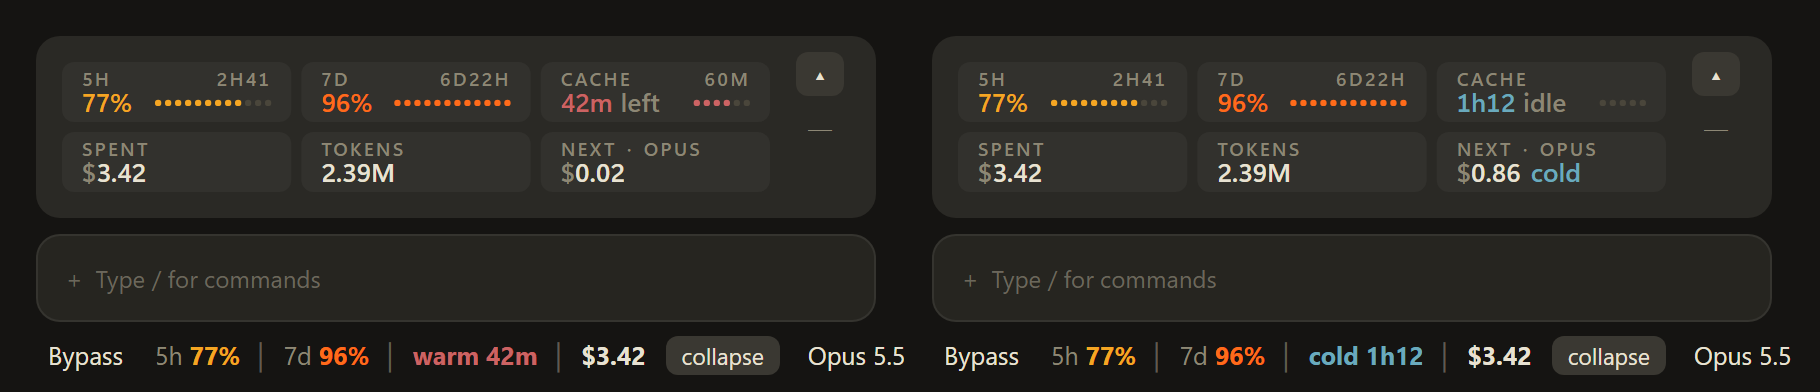
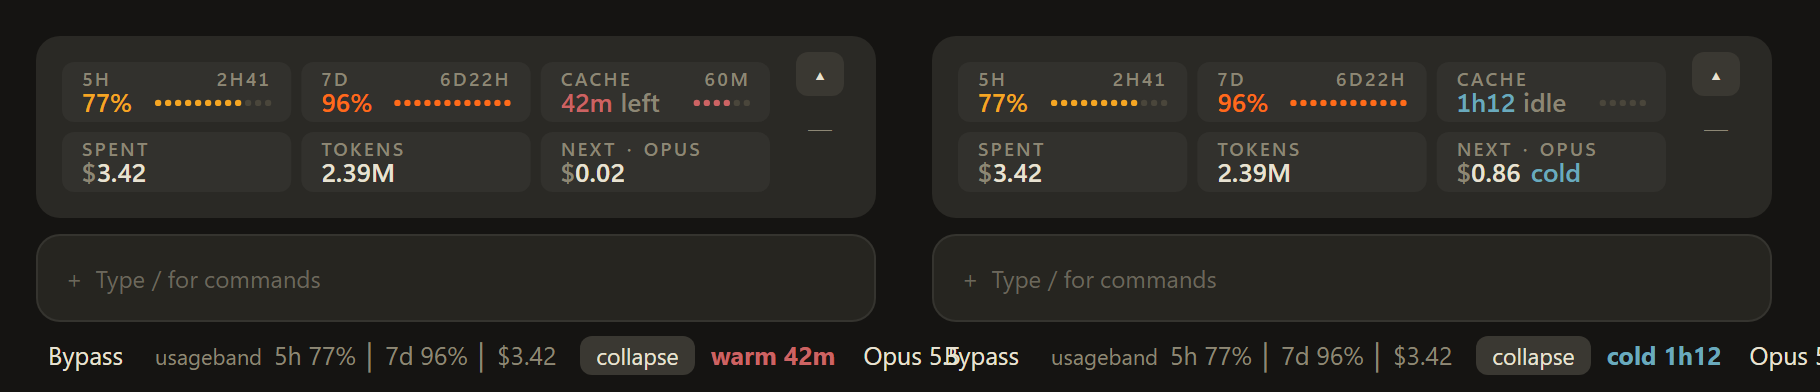
fix: split the footer so every figure shows (#5)
The desktop app cuts the footer's mode slot after about 25 characters,
so the cache state and the spend were hidden. The slot now holds only
the expand/collapse button and the cache in colour ("warm 42m" red,
"cold 1h12" blue). The 5h and 7d limits and the money spent go to the
plugin status line ("5h 77% │ 7d 96% │ $3.42"), which has room for them.

Version 0.14.0.

Closes #4

Changed region(s): [[0.5538, 0.8571, 1.0, 0.9796], [0.0615, 0.8571, 0.5231, 0.9796]]

diff --git a/hooks/register.tsx b/hooks/register.tsx
@@ -370,63 +370,43 @@ export const register: Register = on => {
       : { text: 'Usage band shown.' }
   })
 
-  // The footer, right of the prompt: the engine's mode labels, then the usage line
-  // ("5h 77% │ 7d 96% │ warm 42m │ $3.42"), then one Button in the app's own style that
-  // shows or hides the band at any time: "expand" while it is hidden, "collapse" while
-  // it shows. The footer slot is narrow and the engine reports only the window's width,
-  // so the line is always the short form. It reads the view and the figures here, so a
-  // change to either draws it again, and the redraw interval keeps the countdown current.
+  // The footer row. The desktop app cuts this slot after about 25 characters, so it
+  // holds only the expand/collapse Button and the cache in colour ("warm 42m" red,
+  // "cold 1h12" blue). The rest of the line ("5h 77% │ 7d 96% │ $3.42") goes to the
+  // plugin status line, which has room for it. Both refresh here, so a change to the
+  // view or the figures, and the redraw interval, keep them current.
+  let lastStatus: string | undefined
   on('ui.render', { component: 'SessionMode' }, async ($, ev) => {
     const { Box, Button, Text } = $.ui.resolve(ev)
     const hidden = (await read($, view)) === 'mini'
     const v = await bandView($)
-    type Run = { t: string; color?: string; bold?: boolean; dim?: boolean }
-    const parts: Run[][] = []
-    if (ev.props.modes.length > 0) parts.push([{ t: ev.props.modes.join(' & '), dim: true }])
-    const gauge = (name: string, g: Gauge | null, color: string): Run[] =>
-      g
-        ? [
-            { t: `${name} `, dim: true },
-            { t: `${g.left}%`, color, bold: true },
-            ...(g.left < LOW_UNDER ? [{ t: ' LOW', color: PAL.d7, bold: true }] : []),
-          ]
-        : [{ t: `${name} --`, dim: true }]
-    parts.push(gauge('5h', v.h5, PAL.h5), gauge('7d', v.d7, PAL.d7))
-    if (v.cache) parts.push([{ t: `${v.cache.mode} ${v.cache.time}`, color: tone(v.cache.mode), bold: true }])
-    parts.push([{ t: formatUsd(v.usd), color: PAL.ink, bold: true }])
-    const runs: Run[] = parts.flatMap((p, i) => (i === 0 ? p : [{ t: ' │ ', dim: true }, ...p]))
-    // The desktop footer showed this row's children in reverse (the Button drew left of the
-    // line it followed), so the Button comes first here to land on the right. The line never
-    // shrinks: a shrinkable line was cut to a few words inside the footer's slot.
-    const toggle = (
-      <Box key="toggle" flexShrink={0} marginLeft={1}>
-        <Button
-          key="usageband-footer"
-          label={hidden ? 'expand' : 'collapse'}
-          onPress={() => void setView($, x => (x === 'mini' ? 'band' : 'mini'))}
-        />
-      </Box>
-    )
+    const gauge = (name: string, g: Gauge | null): string =>
+      g ? `${name} ${g.left}%${g.left < LOW_UNDER ? ' LOW' : ''}` : `${name} --`
+    const status = [gauge('5h', v.h5), gauge('7d', v.d7), formatUsd(v.usd)].join(' │ ')
+    if (status !== lastStatus) {
+      lastStatus = status
+      $.ui.status(status)
+    }
+    const modes = ev.props.modes.join(' & ')
     return (
       <Box flexDirection="row" alignItems="center" flexShrink={0}>
-        {toggle}
-        <Box key="line" flexDirection="row" flexShrink={0}>
-          {runs.map((r, i) =>
-            r.dim ? (
-              <Text key={`r${i}`} dimColor>
-                {r.t}
-              </Text>
-            ) : r.bold ? (
-              <Text key={`r${i}`} color={r.color ?? PAL.ink} weight="bold">
-                {r.t}
-              </Text>
-            ) : (
-              <Text key={`r${i}`} color={r.color ?? PAL.ink}>
-                {r.t}
-              </Text>
-            ),
-          )}
+        <Box key="toggle" flexShrink={0} marginRight={1}>
+          <Button
+            key="usageband-footer"
+            label={hidden ? 'expand' : 'collapse'}
+            onPress={() => void setView($, x => (x === 'mini' ? 'band' : 'mini'))}
+          />
         </Box>
+        {v.cache ? (
+          <Text key="cache" color={tone(v.cache.mode)} weight="bold">
+            {`${v.cache.mode} ${v.cache.time}`}
+          </Text>
+        ) : null}
+        {modes ? (
+          <Text key="modes" dimColor>
+            {` ${modes}`}
+          </Text>
+        ) : null}
       </Box>
     )
   })

diff --git a/README.md b/README.md
@@ -9,10 +9,10 @@ Your Claude Code usage at a glance: what is left of the 5-hour and 7-day limits,
 **Footer line.** Always on, next to the model name, and it takes no space:
 
 ```
-5h 77% │ 7d 96% │ warm 42m │ $3.42  [collapse]
+usageband 5h 77% │ 7d 96% │ $3.42   [collapse] warm 42m
 ```
 
-Left to right: 5-hour and 7-day limits left, the cache (red while warm, blue once cold) with its countdown, and the money spent this session.
+The status part shows the 5-hour and 7-day limits left and the money spent this session. After the button, the cache shows its countdown in red while warm and its idle time in blue once cold.
 
 **Band.** Six chips above the prompt. They reflow into rows as the pane narrows.
 
